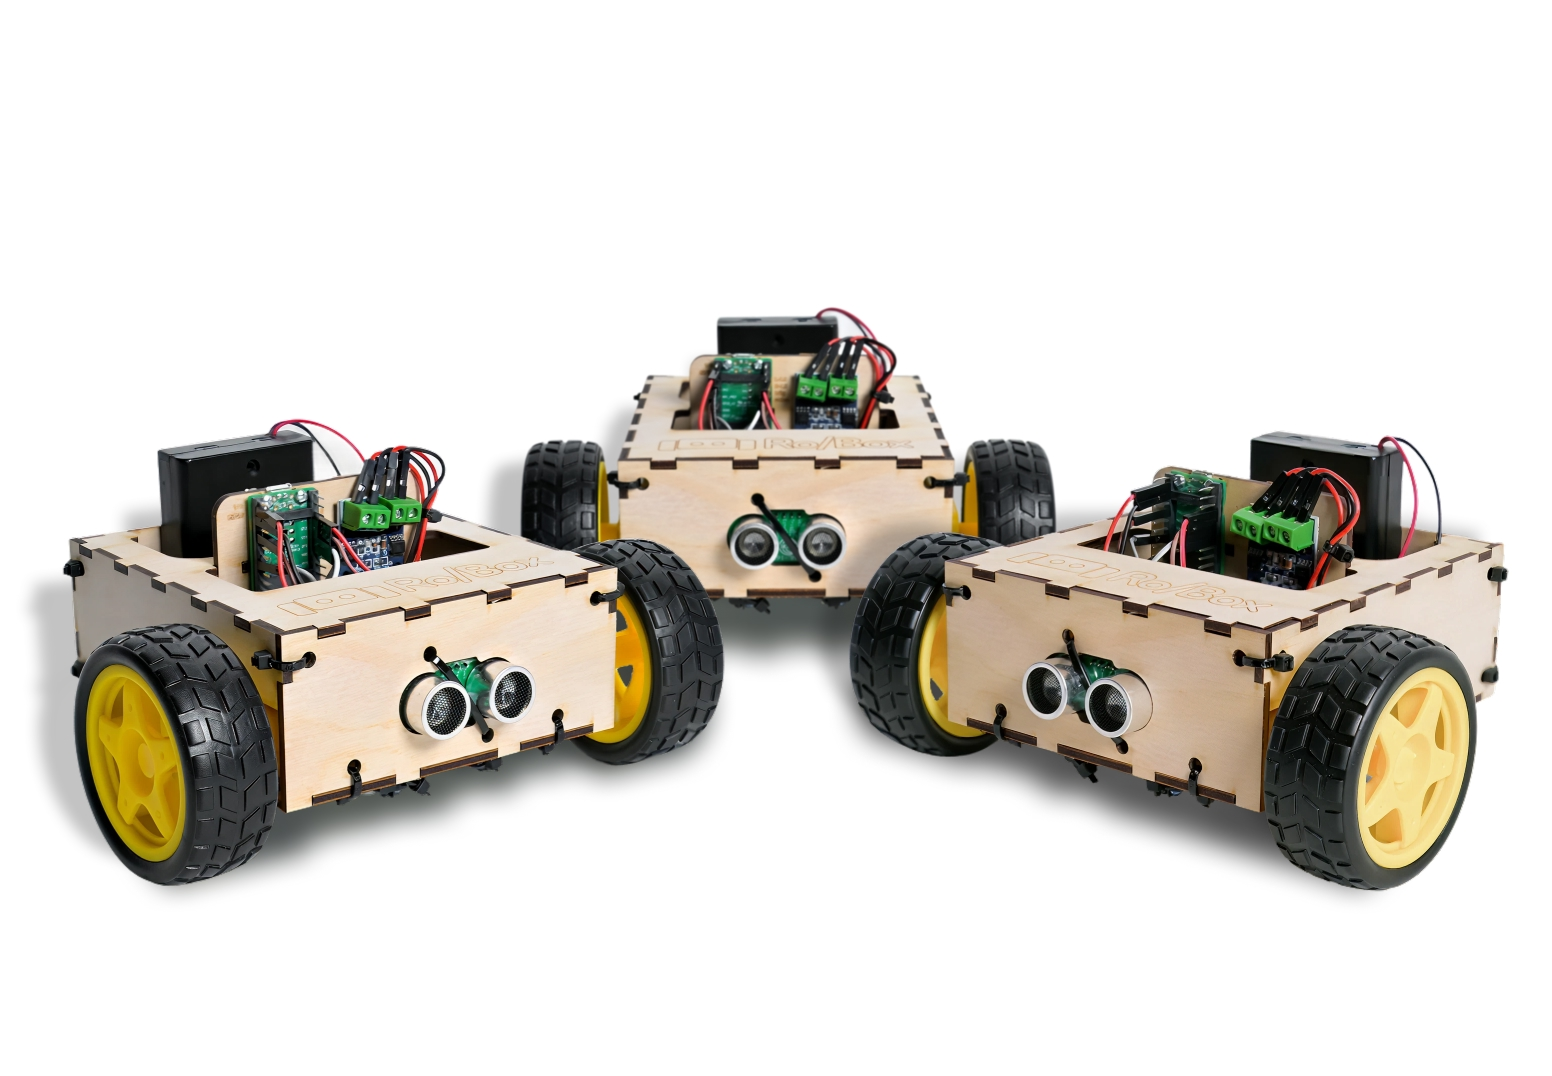
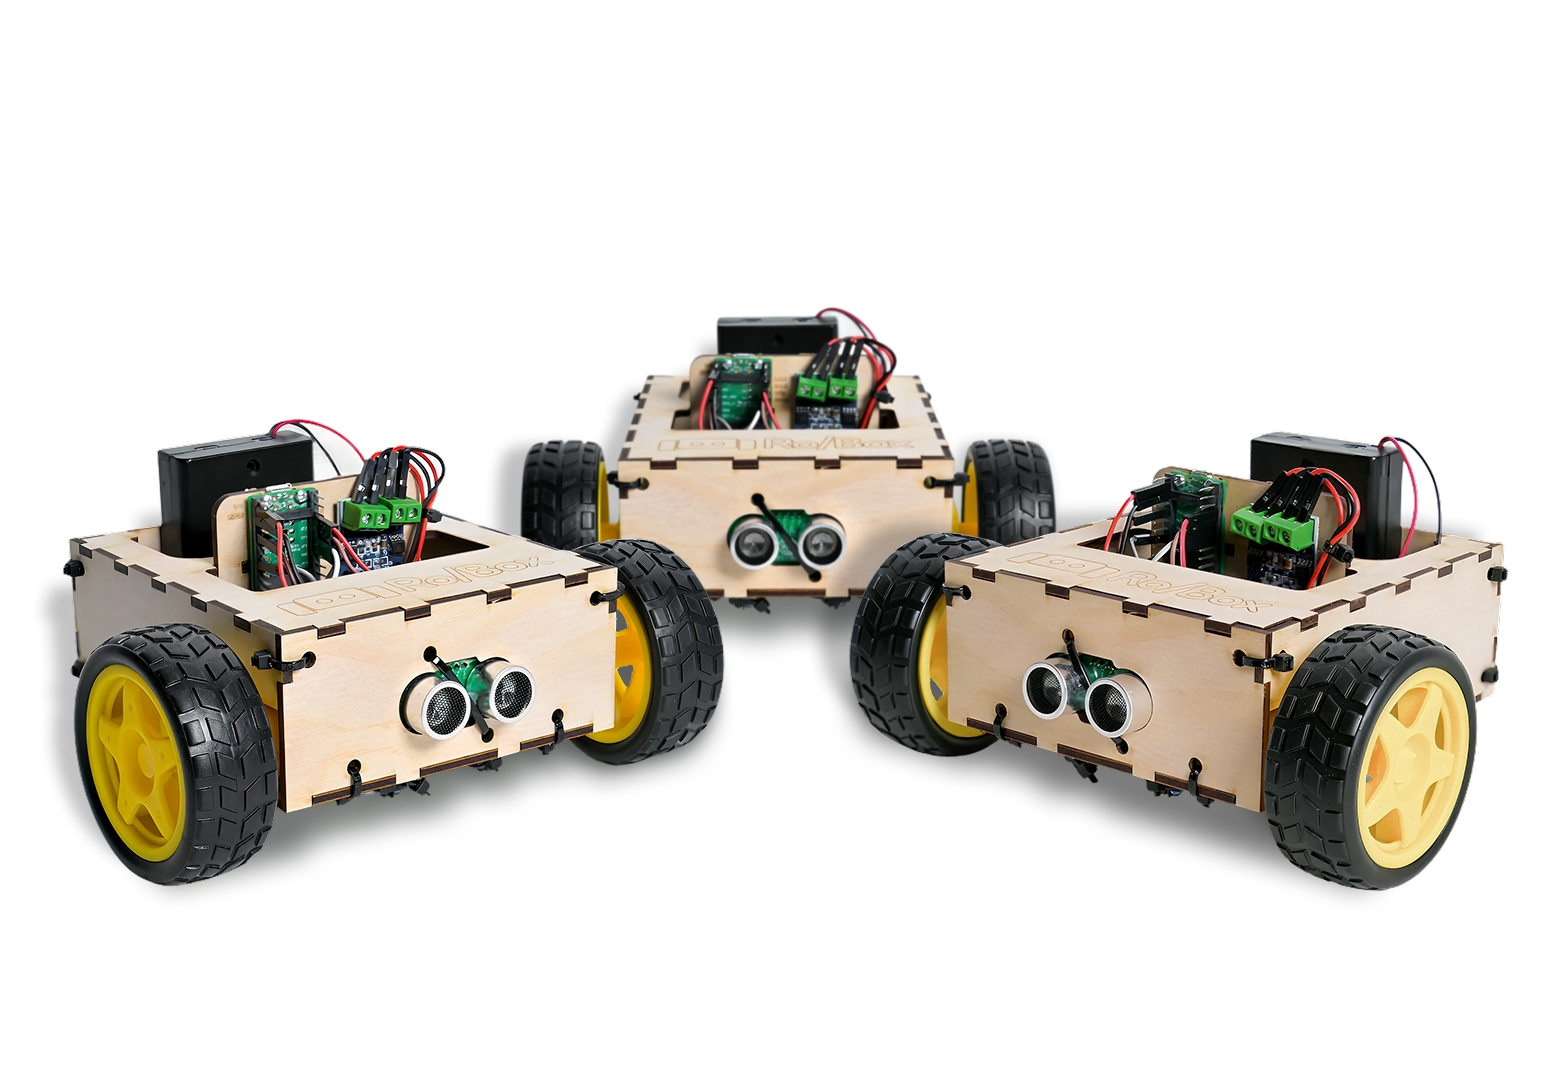
Fix cart delete bug, cleanup, made images hi res

diff --git a/src/pages/shop/cart/cart.ts b/src/pages/shop/cart/cart.ts
@@ -1,5 +1,6 @@
 import { getCart, refreshCart, setCartItem, getItem, removeCartItem} from "@root/cart"
 import { renderCart } from "@root/shop"
+import { register } from "module"
 
 const availableHolder = document.querySelector("#available-section")
 const preorderHolder = document.querySelector("#preorder-section")
@@ -71,38 +72,44 @@ function renderPreview() {
     if (cartEmpty) {
         document.getElementById("empty-cart").style.display = "flex";
         document.getElementById("main-content").style.display = "none";
+    } else {
+        registerQtyButtons();
     }
 }
 renderPreview()
 
-const quantityButtons = document.querySelectorAll(".cart-quantity-button")
-for (const quantityButton of quantityButtons) {
-    let increaseButton = quantityButton.querySelector(".increase-cart-button") as HTMLButtonElement
-    let decreaseButton = quantityButton.querySelector(".decrease-cart-button") as HTMLButtonElement
-    let productId = quantityButton.closest(".cart-item").id
-    let quantityElement = quantityButton.querySelector(".cart-quantity") as HTMLInputElement
-    quantityElement.addEventListener("input", (e) => {
-        quantityElement.value = quantityElement.value.slice(0, 2);
-        let numberValue = Number(quantityElement.value) ?? 0;
-        updateCart(productId, numberValue);
-    })
-    increaseButton.addEventListener("click", (e) => {
-        updateCart(productId, Number(quantityElement.value)+1)
-    })
-    decreaseButton.addEventListener("click", (e) => {
-        if (Number(quantityElement.value)-1 < 0) return
-        updateCart(productId, Number(quantityElement.value)-1)
-    })
+function registerQtyButtons() {
+    const quantityButtons = document.querySelectorAll(".cart-quantity-button")
+    for (const quantityButton of quantityButtons) {
+        let increaseButton = quantityButton.querySelector(".increase-cart-button") as HTMLButtonElement
+        let decreaseButton = quantityButton.querySelector(".decrease-cart-button") as HTMLButtonElement
+        let productId = quantityButton.closest(".cart-item").id
+        let quantityElement = quantityButton.querySelector(".cart-quantity") as HTMLInputElement
+        quantityElement.addEventListener("input", (e) => {
+            quantityElement.value = quantityElement.value.slice(0, 2);
+            let numberValue = Number(quantityElement.value) ?? 0;
+            updateCart(productId, numberValue);
+        })
+        increaseButton.addEventListener("click", (e) => {
+            updateCart(productId, Number(quantityElement.value)+1)
+        })
+        decreaseButton.addEventListener("click", (e) => {
+            if (Number(quantityElement.value)-1 < 0) return
+            updateCart(productId, Number(quantityElement.value)-1)
+        })
+    }
+    
+    const deleteButtons = document.querySelectorAll(".cart-item-delete")
+    for (const deleteButton of deleteButtons) {
+        let productId = deleteButton.closest(".cart-item").id
+        deleteButton.addEventListener("click", () => {
+            removeCartItem(productId)
+            renderCart()
+            renderPreview()
+        })
+    }
 }
-const deleteButtons = document.querySelectorAll(".cart-item-delete")
-for (const deleteButton of deleteButtons) {
-    let productId = deleteButton.closest(".cart-item").id
-    deleteButton.addEventListener("click", (event) => {
-        removeCartItem(productId)
-        renderCart()
-        renderPreview()
-    })
-}
+
 function updateCart(productId: string, quantity: number) {
     quantity = Math.min(Math.max(quantity, 0), 99);
     let productElement = document.getElementById(productId)

diff --git a/src/root/stripe-helper.ts b/src/root/stripe-helper.ts
@@ -4,7 +4,7 @@ import fees from "../fees.json" with { type: "json" };
 const feesObject = typeof fees == "string" ? JSON.parse(fees) : fees;
 export const shippingCost = feesObject.shippingCost ?? 8.00;
 
-export function calculateTotalCost(cart: Record<string, number>, products: Record<string, Product>): number {
+export function calculateTotalCost(cart: Record<string, number>, products: Record<string, Product>): { products: number; total: number } {
     let totalCost = 0;
     for (const [productId, quantity] of Object.entries(cart)) {
         const product = products[productId];
@@ -12,7 +12,11 @@ export function calculateTotalCost(cart: Record<string, number>, products: Recor
             totalCost += product.price * quantity;
         }
     }
-    return totalCost + shippingCost;
+
+    return {
+        products: totalCost,
+        total: totalCost + (totalCost > 0 ? shippingCost : 0)
+    };
 }
 
 export function cartToDictionary(): Record<string, number> {

diff --git a/src/root/shop.ts b/src/root/shop.ts
@@ -22,16 +22,16 @@ export function renderCart() {
     // Hide checkout button if cost is 0
     let checkoutButton = document.getElementById("checkout");
     if (checkoutButton) {
-        if (cost <= 0) {
+        if (cost.total <= 0) {
             checkoutButton.style.display = "none";
         } else {
             checkoutButton.style.display = "block";
         }
     }
     if (totalValue && orderValue && shippingValue) {
-        orderValue.textContent = `$${cost-shippingCost}`
-        totalValue.textContent = `$${cost}`
-        shippingValue.textContent = `$${shippingCost}`
+        orderValue.textContent = `$${cost.products}`;
+        totalValue.textContent = `$${cost.total}`;
+        shippingValue.textContent = `$${cost.total > 0 ? shippingCost : 0}`;
     }
 }
 

diff --git a/store.ts b/store.ts
@@ -25,7 +25,7 @@ paymentRouter.post("/create", async (req: Request<{}, {}, PaymentIntentCreationB
         res.status(400).send({ error: "Products is not defined" });
         return 
     }
-    let verifiedServerCost = calculateTotalCost(products, verifiedProducts)
+    let verifiedServerCost = calculateTotalCost(products, verifiedProducts).total;
     if (expected_price !== verifiedServerCost) {
         res.status(400).send({error: "Server prices do not match the client prices"})
         return 

diff --git a/src/pages/shop/checkout/checkout.ts b/src/pages/shop/checkout/checkout.ts
@@ -14,7 +14,7 @@ let products = Object.keys(cart["products"]).reduce((acc: Record<string, Product
     return acc;
 }, {});
 
-let totalCost = calculateTotalCost(cartToDictionary(), products);
+let totalCost = calculateTotalCost(cartToDictionary(), products).total;
 
 const appearance: Appearance = {
     theme: "flat",
